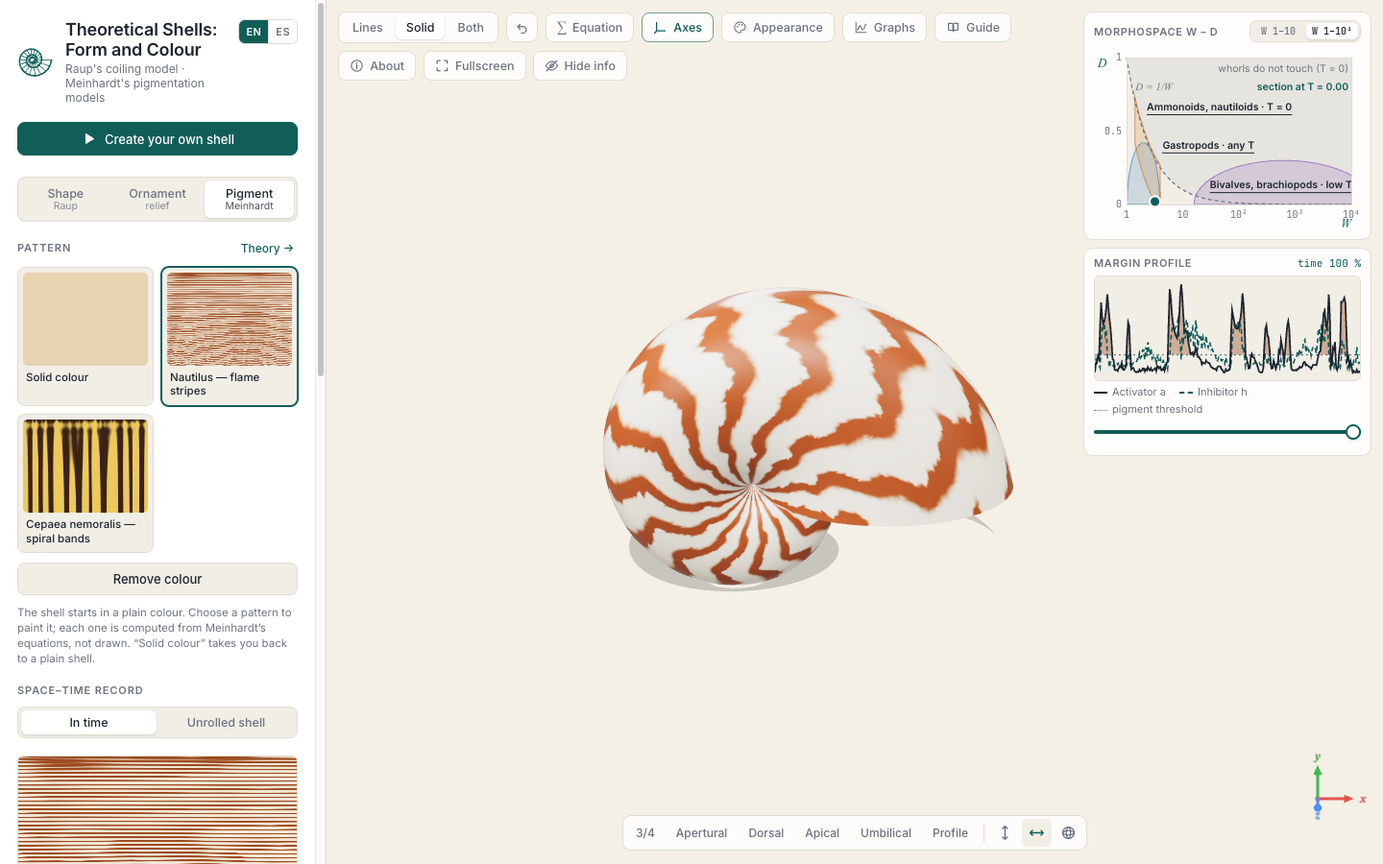
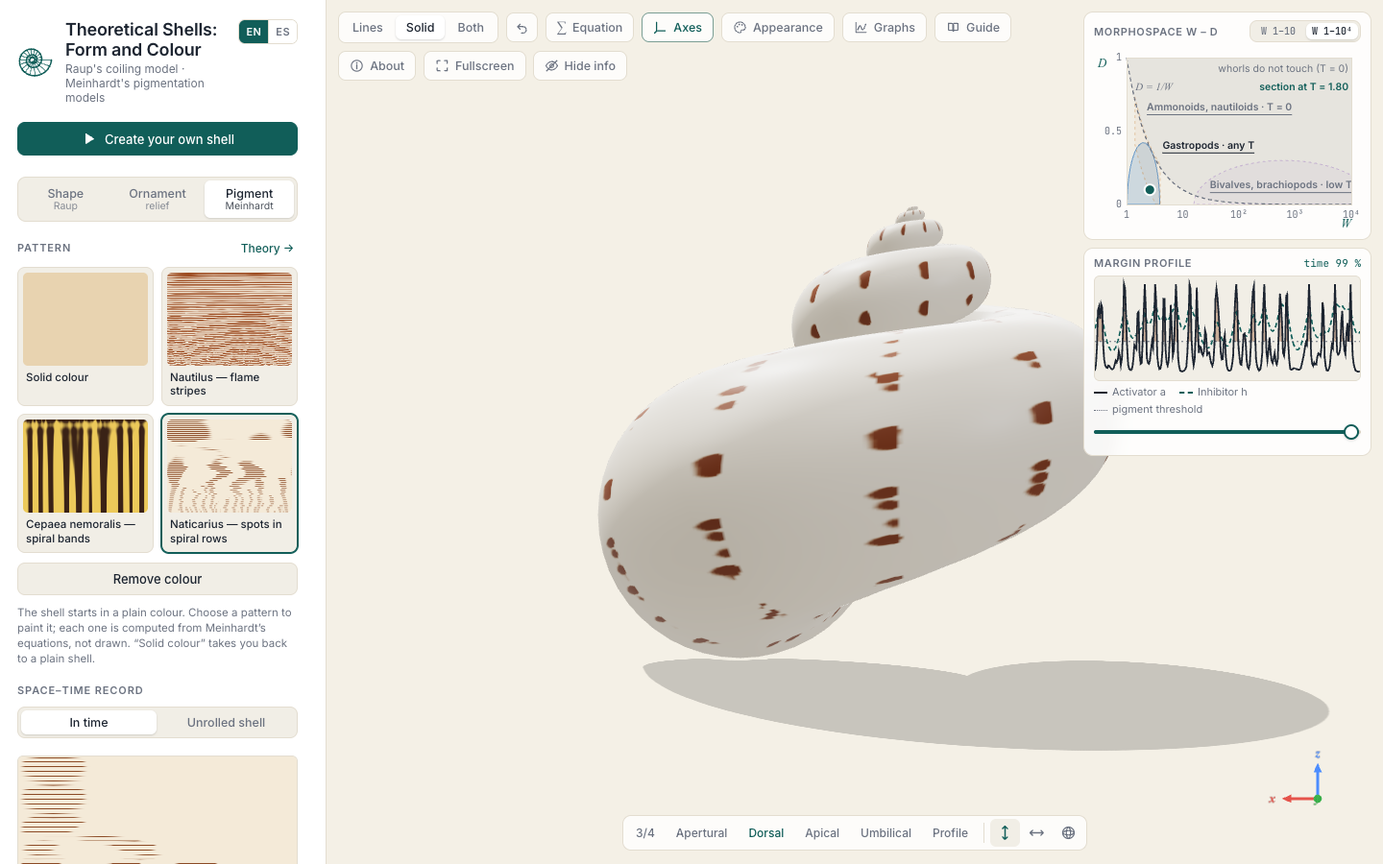
Patrón de puntos de Naticarius, secciones plegables en la barra lateral y worker del patrón en su ruta correcta

diff --git a/index.html b/index.html
@@ -73,30 +73,32 @@
         <div id="raup-params"></div>
       </section>
 
-      <section class="panel">
-        <h2 class="panel-title" data-i18n="geo.title">Geometry</h2>
-        <div id="geo-params"></div>
-        <div class="row-2">
-          <label class="field">
-            <span data-i18n="geo.hand">Coiling</span>
-            <select id="hand" class="select">
-              <option value="1" data-i18n="geo.dextral">Dextral</option>
-              <option value="-1" data-i18n="geo.sinistral">Sinistral</option>
-            </select>
-          </label>
-          <div class="field">
-            <span>&nbsp;</span>
-            <button type="button" class="btn toggle-btn" id="mirror" aria-pressed="false" data-i18n-title="geo.mirror.hint">
-              <svg viewBox="0 0 20 20" aria-hidden="true"><path d="M10 2v16M7 5 3 10l4 5M13 5l4 5-4 5" fill="none" stroke="currentColor" stroke-width="1.6" stroke-linecap="round" stroke-linejoin="round"/></svg>
-              <span data-i18n="geo.mirror">Mirror valve</span>
-            </button>
+      <details class="drawer" id="geoDrawer">
+        <summary><span data-i18n="geo.title">Geometry</span></summary>
+        <div class="drawer-body">
+          <div id="geo-params"></div>
+          <div class="row-2">
+            <label class="field">
+              <span data-i18n="geo.hand">Coiling</span>
+              <select id="hand" class="select">
+                <option value="1" data-i18n="geo.dextral">Dextral</option>
+                <option value="-1" data-i18n="geo.sinistral">Sinistral</option>
+              </select>
+            </label>
+            <div class="field">
+              <span>&nbsp;</span>
+              <button type="button" class="btn toggle-btn" id="mirror" aria-pressed="false" data-i18n-title="geo.mirror.hint">
+                <svg viewBox="0 0 20 20" aria-hidden="true"><path d="M10 2v16M7 5 3 10l4 5M13 5l4 5-4 5" fill="none" stroke="currentColor" stroke-width="1.6" stroke-linecap="round" stroke-linejoin="round"/></svg>
+                <span data-i18n="geo.mirror">Mirror valve</span>
+              </button>
+            </div>
           </div>
+          <button type="button" class="btn btn-wide" id="grow">
+            <svg viewBox="0 0 20 20" aria-hidden="true"><path id="growIcon" d="M6 4l10 6-10 6z" fill="currentColor"/></svg>
+            <span id="growLabel" data-i18n="geo.grow">Animate growth</span>
+          </button>
         </div>
-        <button type="button" class="btn btn-wide" id="grow">
-          <svg viewBox="0 0 20 20" aria-hidden="true"><path id="growIcon" d="M6 4l10 6-10 6z" fill="currentColor"/></svg>
-          <span id="growLabel" data-i18n="geo.grow">Animate growth</span>
-        </button>
-      </section>
+      </details>
 
 
       <details class="drawer" id="morphoDrawer">
@@ -130,38 +132,48 @@
           </div>
         </section>
 
-        <section class="panel">
-          <h2 class="panel-title" data-i18n="orn.ribs">Axial ribs</h2>
-          <p class="note" data-i18n="orn.ribs.desc"></p>
-          <div id="rib-params"></div>
-          <div id="ribAdv-params" class="adv-only"></div>
-        </section>
-        <section class="panel">
-          <h2 class="panel-title" data-i18n="orn.cords">Spiral cords</h2>
-          <p class="note" data-i18n="orn.cords.desc"></p>
-          <div id="cord-params"></div>
-          <div id="cordAdv-params" class="adv-only"></div>
-          <label class="toggle"><input type="checkbox" id="nodules" /><span data-i18n="orn.nodules">Nodules where ribs and cords cross</span></label>
-        </section>
-        <section class="panel">
-          <h2 class="panel-title" data-i18n="orn.spines">Spines</h2>
-          <p class="note" data-i18n="orn.spines.desc"></p>
-          <div id="spine-params"></div>
-          <div class="adv-only">
-            <div id="spineAdv-params"></div>
-            <label class="toggle"><input type="checkbox" id="spineBoth" /><span data-i18n="orn.spineBoth">Two rows, symmetric about the periphery</span></label>
+        <details class="drawer" id="ribDrawer">
+          <summary><span data-i18n="orn.ribs">Axial ribs</span></summary>
+          <div class="drawer-body">
+            <p class="note" data-i18n="orn.ribs.desc"></p>
+            <div id="rib-params"></div>
+            <div id="ribAdv-params" class="adv-only"></div>
           </div>
-        </section>
-        <section class="panel adv-only">
-          <h2 class="panel-title" data-i18n="orn.keel">Keel</h2>
-          <p class="note" data-i18n="orn.keel.desc"></p>
-          <div id="keel-params"></div>
-        </section>
-        <section class="panel adv-only">
-          <h2 class="panel-title" data-i18n="orn.growth">Change with growth</h2>
-          <p class="note" data-i18n="orn.growth.desc"></p>
-          <div id="growth-params"></div>
-        </section>
+        </details>
+        <details class="drawer" id="cordDrawer">
+          <summary><span data-i18n="orn.cords">Spiral cords</span></summary>
+          <div class="drawer-body">
+            <p class="note" data-i18n="orn.cords.desc"></p>
+            <div id="cord-params"></div>
+            <div id="cordAdv-params" class="adv-only"></div>
+            <label class="toggle"><input type="checkbox" id="nodules" /><span data-i18n="orn.nodules">Nodules where ribs and cords cross</span></label>
+          </div>
+        </details>
+        <details class="drawer" id="spineDrawer">
+          <summary><span data-i18n="orn.spines">Spines</span></summary>
+          <div class="drawer-body">
+            <p class="note" data-i18n="orn.spines.desc"></p>
+            <div id="spine-params"></div>
+            <div class="adv-only">
+              <div id="spineAdv-params"></div>
+              <label class="toggle"><input type="checkbox" id="spineBoth" /><span data-i18n="orn.spineBoth">Two rows, symmetric about the periphery</span></label>
+            </div>
+          </div>
+        </details>
+        <details class="drawer adv-only" id="keelDrawer">
+          <summary><span data-i18n="orn.keel">Keel</span></summary>
+          <div class="drawer-body">
+            <p class="note" data-i18n="orn.keel.desc"></p>
+            <div id="keel-params"></div>
+          </div>
+        </details>
+        <details class="drawer adv-only" id="growthDrawer">
+          <summary><span data-i18n="orn.growth">Change with growth</span></summary>
+          <div class="drawer-body">
+            <p class="note" data-i18n="orn.growth.desc"></p>
+            <div id="growth-params"></div>
+          </div>
+        </details>
         <details class="drawer adv-only" id="mechDrawer">
           <summary><span data-i18n="mech.title">Why this number of cords?</span></summary>
           <div class="drawer-body">
@@ -256,13 +268,15 @@
             </div>
           </section>
 
-          <section class="panel">
-            <h2 class="panel-title" data-i18n="pig.colors">Pigment colours</h2>
-            <div class="colors two">
-              <label class="color-field"><input type="color" id="pigBase" value="#f1e7d6" /><span data-i18n="pig.base">Background</span></label>
-              <label class="color-field"><input type="color" id="pigColor" value="#9c4a1f" /><span data-i18n="pig.pigment">Pigment</span></label>
+          <details class="drawer" id="pigColorsDrawer">
+            <summary><span data-i18n="pig.colors">Pigment colours</span></summary>
+            <div class="drawer-body">
+              <div class="colors two">
+                <label class="color-field"><input type="color" id="pigBase" value="#f1e7d6" /><span data-i18n="pig.base">Background</span></label>
+                <label class="color-field"><input type="color" id="pigColor" value="#9c4a1f" /><span data-i18n="pig.pigment">Pigment</span></label>
+              </div>
             </div>
-          </section>
+          </details>
 
           <div class="save-row">
             <button type="button" class="btn" id="savePattern" data-i18n="pig.save">Save pattern</button>

diff --git a/js/ui/ornament-tab.js b/js/ui/ornament-tab.js
@@ -1,7 +1,8 @@
 /**
  * The ornament tab: ornamented examples (shape and relief together), the
  * simple and advanced controls of ribs, cords, keel, spines and change with
- * growth, and the panel of the mechanical model of the cords.
+ * growth (folded sections, opened when the shell has that relief), and the
+ * panel of the mechanical model of the cords.
  */
 import { t } from '../i18n/i18n.js';
 import { criticalWaves, firstMode, lambdaForWaves, loadRatio, mechanicalCords, unstableBand } from '../model/mechanics.js';
@@ -45,6 +46,21 @@ export function syncOrnamentControls() {
   for (const d of ORN_PARAMS) controlsByKey[d.key].set(state[d.key]);
   for (const k of ORN_BOOLS) $(k).checked = !!state[k];
   ornPresetSel.value = ornPresetKey();
+  openActiveDrawers();
+}
+
+/**
+ * Ribs, cords, spines, keel and change with growth are folded sections of equal
+ * rank; when the relief is replaced (an example, undo, removing it) the ones the
+ * shell has are opened and the rest folded. Moving a slider never folds a section.
+ */
+function openActiveDrawers() {
+  const s = state;
+  $('ribDrawer').open = s.ribN > 0 && s.ribH > 0;
+  $('cordDrawer').open = (s.cordN > 0 && s.cordH > 0) || !!s.nodules;
+  $('spineDrawer').open = s.spineN > 0 && s.spineH > 0;
+  $('keelDrawer').open = s.keelH > 0;
+  $('growthDrawer').open = s.ornGrowth !== 0 && hasOrnament(s);
 }
 
 export function onOrnamentChange() {
@@ -181,6 +197,7 @@ export function initOrnamentTab(ctx) {
     onOrnamentChange();
   });
   buildOrnPresetOptions();
+  openActiveDrawers();
   $('ornTheory').addEventListener('click', () => openInfo('ornament'));
   $('ornClear').addEventListener('click', () => {
     Object.assign(state, ORNAMENT_DEFAULTS);

diff --git a/js/i18n/theory-es.js b/js/i18n/theory-es.js
@@ -140,6 +140,7 @@ export default {
     <ul>
       <li><strong>Bandas a lo largo de la espiral</strong>, como en el caracol <i>Cepaea nemoralis</i>: picos de activador estables (activador-inhibidor con un inhibidor de largo alcance).</li>
       <li><strong>Rayas paralelas a las líneas de crecimiento</strong>, como las llamas del <i>Nautilus</i>: oscilaciones sincronizadas entre células vecinas (activador-inhibidor con un inhibidor de vida larga). Su contorno irregular y ramificado se debe a las diferencias entre células.</li>
+      <li><strong>Puntos en filas espirales</strong>, como en los <i>Naticarius</i>: las dos cosas a la vez. El inhibidor mantiene separados los picos a lo largo del borde, como en las bandas, y dura más que el activador, así que cada pico se enciende y se apaga en su sitio, como en las llamas.</li>
       <li><strong>Líneas oblicuas, zigzags y triángulos</strong>, como en <i>Oliva</i> y en muchos conos: ondas viajeras, sus choques y ramificaciones y, en el caso de los triángulos, el control global (activador-sustrato).</li>
     </ul>
     <p>Un pequeño cambio en una sola constante puede convertir un tipo de patrón en otro. El mismo mecanismo, con ritmos algo distintos, explica conchas muy diferentes.</p>

diff --git a/js/ui/pigment.js b/js/ui/pigment.js
@@ -331,7 +331,7 @@ export function applyShellMaterial() {
 let patternWorker = null;
 let workerBusy = false;
 let workerFailed = false;
-const workerUrl = new URL('./workers/pigment-worker.js', import.meta.url);
+const workerUrl = new URL('../workers/pigment-worker.js', import.meta.url);
 
 function startWorker() {
   try {
@@ -497,6 +497,7 @@ export function computeThumbs() {
     colorize(values, job.preset.base, job.preset.pigment, job.preset.amount, img.data);
     canvas.getContext('2d').putImageData(img, 0, 0);
   };
+  const onMainThread = () => jobs.forEach(({ id, p, g }) => setTimeout(() => draw(id, simulatePattern(p, g).values)));
   try {
     const w = new Worker(workerUrl, { type: 'module' });
     let left = jobs.length;
@@ -504,9 +505,14 @@ export function computeThumbs() {
       draw(e.data.id, e.data.v);
       if (--left === 0) w.terminate();
     };
+    // A worker that cannot load (or fails) does not leave the gallery blank
+    w.onerror = () => {
+      w.terminate();
+      onMainThread();
+    };
     jobs.forEach(({ id, p, g }) => w.postMessage({ id, p, g }));
   } catch {
-    jobs.forEach(({ id, p, g }) => setTimeout(() => draw(id, simulatePattern(p, g).values)));
+    onMainThread();
   }
 }
 

diff --git a/js/i18n/theory-en.js b/js/i18n/theory-en.js
@@ -139,6 +139,7 @@ export default {
     <ul>
       <li><strong>Bands along the spiral</strong>, as in the banded snail <i>Cepaea nemoralis</i>: stable activator peaks (activator–inhibitor with a far-reaching inhibitor).</li>
       <li><strong>Stripes parallel to the growth lines</strong>, like the flames of <i>Nautilus</i>: oscillations synchronised between neighbouring cells (activator–inhibitor with a long-lived inhibitor). Their irregular, branching outline comes from the differences between cells.</li>
+      <li><strong>Spots in spiral rows</strong>, as in the moon snails <i>Naticarius</i>: both at once. The inhibitor keeps the peaks apart along the margin, as in the bands, and outlives the activator, so each peak switches on and off in place, as in the flames.</li>
       <li><strong>Oblique lines, zigzags and triangles</strong>, as in <i>Oliva</i> and many cone shells: travelling waves, their annihilation and branching and, for the triangles, global control (activator–substrate).</li>
     </ul>
     <p>A small change in a single constant can turn one type into another. The same mechanism, with slightly different rates, explains very different shells.</p>

diff --git a/js/model/presets.js b/js/model/presets.js
@@ -64,6 +64,16 @@ export const PATTERN_PRESETS = {
     model: 'AI', Da: 0.02, D2: 12, ra: 0.01, r2: 0.015, kappa: 0.4, ba: 0.005, b2: 0,
     noise: 0.05, globalCtl: 0, T: 3000, insertion: false, base: '#ecc95a', pigment: '#3a2216',
   },
+  naticarius: {
+    // Both mechanisms at once: an inhibitor of medium range keeps the peaks apart
+    // along the margin, as in the bands, and outlives the activator, so each peak
+    // switches on and off, as in the flames. Every peak blinks in place and leaves
+    // a spiral row of spots, like the moon snails Naticarius (N. onca). The spots
+    // are short in time because, near the aperture, one unit of time covers a long
+    // stretch of shell: on the shell they come out round.
+    model: 'AI', Da: 0.05, D2: 4, ra: 0.2, r2: 0.1, kappa: 0, ba: 0.05, b2: 0,
+    noise: 0.1, globalCtl: 0, T: 3000, insertion: true, size: 1.6, amount: 0.65, base: '#f4ead8', pigment: '#8b4a24',
+  },
 };
 
 export const DEFAULT_PATTERN = 'nautilus';

diff --git a/css/styles.css b/css/styles.css
@@ -57,8 +57,15 @@ svg { flex: none; }
   display: flex;
   flex-direction: column;
   gap: 18px;
+  /* A thin bar in the theme colours, shown only while the pointer is over the panel */
   scrollbar-width: thin;
+  scrollbar-color: transparent transparent;
 }
+.sidebar:hover { scrollbar-color: var(--border) transparent; }
+.sidebar::-webkit-scrollbar { width: 8px; }
+.sidebar::-webkit-scrollbar-track { background: transparent; }
+.sidebar::-webkit-scrollbar-thumb { background: transparent; border: 2px solid transparent; border-radius: 8px; background-clip: content-box; }
+.sidebar:hover::-webkit-scrollbar-thumb { background-color: var(--border); }
 
 .brand { display: flex; gap: 12px; align-items: center; }
 .brand-mark { width: 38px; height: 38px; color: var(--accent); }

diff --git a/js/i18n/es.js b/js/i18n/es.js
@@ -375,6 +375,7 @@ export default {
   patterns: {
     nautilus: 'Nautilus — rayas en llama',
     cepaea: 'Cepaea nemoralis — bandas espirales',
+    naticarius: 'Naticarius — puntos en filas espirales',
   },
   presets: {
     'Gasterópodos': 'Gasterópodos',

diff --git a/js/i18n/en.js b/js/i18n/en.js
@@ -375,6 +375,7 @@ export default {
   patterns: {
     nautilus: 'Nautilus — flame stripes',
     cepaea: 'Cepaea nemoralis — spiral bands',
+    naticarius: 'Naticarius — spots in spiral rows',
   },
   presets: {
     'Gasterópodos': 'Gastropods',

diff --git a/docs/introduccion-divulgativa.md b/docs/introduccion-divulgativa.md
@@ -80,7 +80,7 @@ Un molusco solo añade pigmento donde la concha crece, en el borde de la apertur
 
 Ese proceso es una **reacción-difusión**, la idea que Alan Turing propuso en 1952 y que Gierer y Meinhardt desarrollaron en 1972: una sustancia **activadora** que se estimula a sí misma y un **antagonista** que difunde más deprisa y la frena. De la competición entre ambos surgen patrones regulares sin que nadie los dibuje. La app ofrece los dos modelos de Meinhardt:
 
-- **Activador-inhibidor.** Si el inhibidor actúa rápido y llega lejos, los picos de activador son estables y dibujan **bandas a lo largo de la espiral** (como en *Cepaea nemoralis*). Si el inhibidor dura más que el activador, el sistema **oscila** y dibuja **rayas paralelas al borde** (como las llamas del *Nautilus*).
+- **Activador-inhibidor.** Si el inhibidor actúa rápido y llega lejos, los picos de activador son estables y dibujan **bandas a lo largo de la espiral** (como en *Cepaea nemoralis*). Si el inhibidor dura más que el activador, el sistema **oscila** y dibuja **rayas paralelas al borde** (como las llamas del *Nautilus*). Si pasan las dos cosas a la vez, cada pico se queda en su sitio pero se enciende y se apaga, y deja **filas de puntos** (como en los *Naticarius*).
 - **Activador-sustrato.** La activación consume un sustrato que tarda en recuperarse, así que cada célula queda un tiempo **refractaria**. La activación avanza entonces como **ondas** que dibujan líneas oblicuas; cuando dos ondas chocan se aniquilan y forman una V. Meinhardt y Klingler (1987) explicaron los **triángulos** de *Oliva porphyria* con un **control global**, una señal común a todo el borde que dispara ondas nuevas cuando la actividad cae. La app incluye una versión simplificada de ese control, que da líneas oblicuas y uves, pero no el patrón completo de *Oliva*.
 
 El pigmento se deposita en la capa externa de la concha, así que la app solo pinta el exterior: el interior de la apertura se ve claro, con un ligero brillo nacarado. Como en las simulaciones de Meinhardt, se deposita pigmento donde el activador supera un umbral, lo que da bordes nítidos; la *cantidad de pigmento* sube o baja ese umbral.
@@ -110,8 +110,8 @@ Si es tu primera vez, el botón **Crea tu propia concha** (arriba de la barra la
 5. **Usa las vistas estándar** de la malacología: 3/4, apertural (de frente a la apertura), dorsal, apical (desde el ápice), umbilical (desde la base) y perfil. Con el ratón puedes rotar (arrastrar), hacer zoom (rueda) y desplazar (clic derecho). Los tres botones de la derecha cambian la orientación: eje vertical, eje horizontal (para ver de frente un nautilus o un ammonites) o giro libre, para girar la concha como si la tuvieras en la mano.
 6. **Pulsa *Animate growth*** para ver crecer la concha desde el ápice hasta la apertura.
 7. **Abre *Equation*** para ver la fórmula general y la misma fórmula con los valores actuales, y ***About*** para la explicación detallada de los dos modelos.
-8. **Añade relieve** en la pestaña **Ornamento**: elige un ejemplo o cambia el número y la altura de costillas, cordones y espinas. El modo **Avanzado** añade anchuras, asimetría, quilla, cambio con el crecimiento y el modelo mecánico de los cordones. **Quitar ornamentación** vuelve a la concha lisa.
-9. **Píntala** en la pestaña **Pigmento · Meinhardt**: al entrar, las líneas desaparecen y la concha se ve sólida, en un color liso. Tú eliges el patrón en la galería, que muestra cada uno (Nautilus y Cepaea) con su miniatura; la opción **Solid colour** vuelve a la concha lisa. En la vista **Simple**, los controles cambian el patrón de forma gradual: **tamaño del patrón**, **tiempo de crecimiento**, **irregularidad**, **cantidad de pigmento** y la **semilla** (otra variación del mismo patrón). La vista **Advanced** muestra además el modelo y todas sus constantes, así que desde ahí se controla todo, y el **perfil del borde**: el activador y el inhibidor (o el sustrato) a lo largo del borde en el instante que elijas pinchando en el registro espacio-tiempo, con el umbral de pigmentación. El registro espacio-tiempo se puede ver **en el tiempo** (el diagrama de Meinhardt, con la misma altura para cada vuelta) o como **concha desenrollada** (con las proporciones reales: un abanico que se abre desde el ápice). Las ecuaciones de Meinhardt, con los valores actuales, están en *Equation*.
+8. **Añade relieve** en la pestaña **Ornamento**: elige un ejemplo o cambia el número y la altura de costillas, cordones y espinas, cada uno en su sección plegable (se abren solas las que tiene la concha). El modo **Avanzado** añade anchuras, asimetría, quilla, cambio con el crecimiento y el modelo mecánico de los cordones. **Quitar ornamentación** vuelve a la concha lisa.
+9. **Píntala** en la pestaña **Pigmento · Meinhardt**: al entrar, las líneas desaparecen y la concha se ve sólida, en un color liso. Tú eliges el patrón en la galería, que muestra cada uno (Nautilus, Cepaea y Naticarius) con su miniatura; la opción **Solid colour** vuelve a la concha lisa. En la vista **Simple**, los controles cambian el patrón de forma gradual: **tamaño del patrón**, **tiempo de crecimiento**, **irregularidad**, **cantidad de pigmento** y la **semilla** (otra variación del mismo patrón). La vista **Advanced** muestra además el modelo y todas sus constantes, así que desde ahí se controla todo, y el **perfil del borde**: el activador y el inhibidor (o el sustrato) a lo largo del borde en el instante que elijas pinchando en el registro espacio-tiempo, con el umbral de pigmentación. El registro espacio-tiempo se puede ver **en el tiempo** (el diagrama de Meinhardt, con la misma altura para cada vuelta) o como **concha desenrollada** (con las proporciones reales: un abanico que se abre desde el ápice). Las ecuaciones de Meinhardt, con los valores actuales, están en *Equation*.
 10. **Muestra gráficos sobre la vista 3D** desde el menú **Gráficos** (desactivados por defecto): la posición de la concha en el morfoespacio W – D, en la que también puedes pinchar, y el perfil del activador y el inhibidor (o el sustrato) a lo largo del borde, con un slider para elegir el instante del crecimiento.
 11. **Para ver solo la concha**, usa *Pantalla completa* y *Ocultar info*. Si algo no te convence, la flecha de **deshacer** de la barra (o Ctrl+Z / ⌘Z) vuelve al paso anterior.
 12. **Exporta** tu concha desde **Exportar…**, poniéndole un nombre si quieres:
@@ -175,6 +175,7 @@ Aproximaciones a los tipos de patrón de cada especie, no ajustes a ejemplares r
 |---|---|---|---|
 | *Nautilus*: rayas en llama | Activador-inhibidor | Oscilación (inhibidor de vida larga) | Sí |
 | *Cepaea nemoralis*: bandas espirales | Activador-inhibidor | Picos estables (inhibición de largo alcance) | No |
+| *Naticarius*: puntos en filas espirales | Activador-inhibidor | Picos en su sitio que se encienden y se apagan (inhibición de alcance medio y vida larga) | Sí |
 
 ## Para desarrolladores
 

diff --git a/docs/README.es.md b/docs/README.es.md
@@ -78,7 +78,7 @@ P*(θ, φ) = P(θ, φ) + W^(θ/2π) · a · δ(θ, φ) · n(φ)
 
 ![Cuatro conchas ornamentadas generadas con la app: un ammonites con costillas (Dactylioceras), un Cerithium con filas de nódulos y color en bandas, un ammonites con costillas y espinas dibujado con líneas, y un Epitonium con costillas laminares y rayas en llama](images/ornament.png)
 
-Los ejemplos cargan la forma y el relieve de conchas reales: *Epitonium clathrus*, *Turritella*, *Calliostoma*, *Cancellaria*, *Cerithium*, la concha sol *Astraea*, un ammonites con costillas (*Dactylioceras*) y otro con espinas, y un berberecho. Las conchas cuya forma no puede dibujar el modelo de Raup, como *Murex* con su largo canal sifonal, quedan fuera. Con ornamentación, el dibujo de líneas sigue el relieve, como una ilustración científica: líneas de crecimiento en las crestas de las costillas, líneas espirales en las crestas de los cordones y cada espina perfilada como un cono. El relieve aparece también en la ecuación, en la ficha PDF y en los archivos 3D.
+Los ejemplos cargan la forma y el relieve de conchas reales: *Epitonium clathrus*, *Turritella*, *Calliostoma*, *Cancellaria*, *Cerithium*, la concha sol *Astraea*, un ammonites con costillas (*Dactylioceras*) y otro con espinas, y un berberecho. Las conchas cuya forma no puede dibujar el modelo de Raup, como *Murex* con su largo canal sifonal, quedan fuera. Con ornamentación, el dibujo de líneas sigue el relieve, como una ilustración científica: líneas de crecimiento en las crestas de las costillas, líneas espirales en las crestas de los cordones y cada espina perfilada como un cono. El relieve aparece también en la ecuación, en la ficha PDF y en los archivos 3D. En la pestaña, costillas, cordones, espinas, quilla y cambio con el crecimiento son secciones plegables del mismo rango; al cargar un ejemplo se abren solas las que tiene esa concha.
 
 Esta parte es **descriptiva**, como el modelo de Raup (Fowler, Meinhardt y Prusinkiewicz, 1992; Cortie, 1993). Para los cordones espirales la app ofrece además una **explicación mecánica**, según Moulton, Goriely y Chirat (2012): el borde del manto es una varilla elástica unida a la concha que acaba de construir (una base de Winkler). Si crece más deprisa que el borde, se pandea en ondas, y cada onda deja un cordón. La carga necesaria para pandearse en n ondas es
 
@@ -98,9 +98,9 @@ El plano es un **corte del cubo W–D–T de Raup con el T actual**. Los grupos 
 
 Un molusco solo añade pigmento en el borde que crece, así que un patrón de concha es un **registro en el tiempo de un proceso unidimensional**: el espacio va a lo largo del borde y el tiempo, en la dirección de crecimiento. La app simula el borde con los modelos de reacción-difusión de Meinhardt y envuelve el registro espacio-tiempo resultante sobre la superficie de Raup, como hicieron Fowler, Meinhardt y Prusinkiewicz (1992).
 
-![Una concha de Nautilus con las rayas en llama del modelo activador-inhibidor, con el registro espacio-tiempo en la barra lateral y, sobre la vista 3D, el morfoespacio y el perfil del activador y el inhibidor a lo largo del borde](images/pigmentation.png)
+![Un caracol con los puntos en filas espirales del preset Naticarius, con la galería de patrones y el registro espacio-tiempo en la barra lateral y, sobre la vista 3D, el morfoespacio y el perfil del activador y el inhibidor a lo largo del borde en un instante en que los puntos están encendidos](images/pigmentation.png)
 
-- **Modelo activador-inhibidor.** Un activador que se refuerza a sí mismo y un inhibidor rápido y de largo alcance dan picos estables, que dibujan bandas a lo largo de la espiral (*Cepaea nemoralis*). Si el inhibidor dura más que el activador, el borde oscila y dibuja rayas paralelas a las líneas de crecimiento (las llamas del *Nautilus*).
+- **Modelo activador-inhibidor.** Un activador que se refuerza a sí mismo y un inhibidor rápido y de largo alcance dan picos estables, que dibujan bandas a lo largo de la espiral (*Cepaea nemoralis*). Si el inhibidor dura más que el activador, el borde oscila y dibuja rayas paralelas a las líneas de crecimiento (las llamas del *Nautilus*). Con las dos cosas a la vez, un inhibidor de alcance medio que además dura más que el activador, cada pico se queda en su sitio pero se enciende y se apaga, y deja una fila espiral de puntos (los *Naticarius*).
 
   ```
   ∂a/∂t = s·(a²/(h·(1 + κa²)) + b_a) − r_a·a + D_a·∂²a/∂x²
@@ -109,7 +109,7 @@ Un molusco solo añade pigmento en el borde que crece, así que un patrón de co
 
 - **Modelo activador-sustrato.** El activador consume un sustrato que se recupera despacio, así que la activación avanza como ondas que dibujan líneas oblicuas y se aniquilan al encontrarse. Meinhardt y Klingler (1987) explicaron los triángulos de *Oliva porphyria* añadiendo una señal compartida por todo el borde que inicia ondas nuevas cuando la actividad baja. La app incluye una versión simplificada de ese control global, que da líneas oblicuas y uves pero no el patrón completo de *Oliva*; por eso está disponible en los controles avanzados y no como preset de una especie.
 
-Dos presets reproducen tipos de patrón reales: las rayas en llama del *Nautilus* y las bandas espirales de *Cepaea nemoralis*.
+Tres presets reproducen tipos de patrón reales: las rayas en llama del *Nautilus*, las bandas espirales de *Cepaea nemoralis* y los puntos en filas espirales de *Naticarius*.
 
 Los **controles simples** fijan magnitudes reales del modelo: el número de células a lo largo del borde, el tiempo de crecimiento, la irregularidad entre células y el umbral de pigmento. Una semilla elige las diferencias al azar entre células. Los **controles avanzados** dan acceso a todas las constantes de las ecuaciones, a la elección del modelo y a la inserción de células nuevas a medida que el borde crece. El registro espacio-tiempo se puede ver en el tiempo, que es el diagrama de Meinhardt, o desenrollado con las proporciones reales de la concha. Un **perfil del borde** representa el activador y el inhibidor o el sustrato en cualquier instante del crecimiento. Si un conjunto de valores no forma ningún patrón, la app lo indica en lugar de mostrar una concha vacía.
 

diff --git a/README.md b/README.md
@@ -76,7 +76,7 @@ P*(θ, φ) = P(θ, φ) + W^(θ/2π) · a · δ(θ, φ) · n(φ)
 
 ![Four ornamented shells generated by the app: a ribbed ammonite (Dactylioceras), a Cerithium with rows of nodules and banded colour, an ammonite with ribs and spines drawn with lines, and an Epitonium with lamellar ribs and flame stripes](docs/images/ornament.png)
 
-The examples load the shape and the relief of real shells: *Epitonium clathrus*, *Turritella*, *Calliostoma*, *Cancellaria*, *Cerithium*, the sun shell *Astraea*, a ribbed (*Dactylioceras*) and a spiny ammonite, and a cockle. Shells whose form Raup's model cannot draw, such as *Murex* with its long siphonal canal, are left out. With ornament, the line drawing follows the relief, like a scientific illustration: growth lines on the crests of the ribs, spiral lines on the crests of the cords, and each spine outlined as a cone. The relief also appears in the equation, the PDF sheet and the 3D files.
+The examples load the shape and the relief of real shells: *Epitonium clathrus*, *Turritella*, *Calliostoma*, *Cancellaria*, *Cerithium*, the sun shell *Astraea*, a ribbed (*Dactylioceras*) and a spiny ammonite, and a cockle. Shells whose form Raup's model cannot draw, such as *Murex* with its long siphonal canal, are left out. With ornament, the line drawing follows the relief, like a scientific illustration: growth lines on the crests of the ribs, spiral lines on the crests of the cords, and each spine outlined as a cone. The relief also appears in the equation, the PDF sheet and the 3D files. In the tab, ribs, cords, spines, keel and change with growth are folded sections of equal rank; when an example is loaded, the ones that shell has open by themselves.
 
 This part is **descriptive**, like Raup's model (Fowler, Meinhardt & Prusinkiewicz, 1992; Cortie, 1993). For the spiral cords the app also offers a **mechanical explanation**, after Moulton, Goriely and Chirat (2012): the edge of the mantle is an elastic rod attached to the shell it has just built (a Winkler foundation). If it grows faster than the margin, it buckles into waves, and each wave leaves a cord. The load needed to buckle into n waves is
 
@@ -96,9 +96,9 @@ The plane is a **section of Raup's W–D–T cube at the current T**. The groups
 
 A mollusc only adds pigment at the growing margin, so a shell pattern is a **time record of a one-dimensional process**: space runs along the margin and time along the direction of growth. The app simulates the margin with Meinhardt's reaction–diffusion models and wraps the resulting space–time record onto Raup's surface, as Fowler, Meinhardt and Prusinkiewicz (1992) did.
 
-![A Nautilus shell with the flame stripes of the activator–inhibitor model, with the space–time record in the sidebar and, over the 3D view, the morphospace and the activator and inhibitor profile along the margin](docs/images/pigmentation.png)
+![A moon snail with the spots in spiral rows of the Naticarius preset, with the pattern gallery and the space–time record in the sidebar and, over the 3D view, the morphospace and the activator and inhibitor profile along the margin at a moment when the spots are switched on](docs/images/pigmentation.png)
 
-- **Activator–inhibitor model.** A self-enhancing activator and a fast, far-reaching inhibitor give stable peaks, which draw bands along the spiral (*Cepaea nemoralis*). If the inhibitor outlives the activator, the margin oscillates and draws stripes parallel to the growth lines (the flames of *Nautilus*).
+- **Activator–inhibitor model.** A self-enhancing activator and a fast, far-reaching inhibitor give stable peaks, which draw bands along the spiral (*Cepaea nemoralis*). If the inhibitor outlives the activator, the margin oscillates and draws stripes parallel to the growth lines (the flames of *Nautilus*). With both at once, a medium-range inhibitor that also outlives the activator, each peak stays in place but switches on and off, and leaves a spiral row of spots (the moon snails *Naticarius*).
 
   ```
   ∂a/∂t = s·(a²/(h·(1 + κa²)) + b_a) − r_a·a + D_a·∂²a/∂x²
@@ -107,7 +107,7 @@ A mollusc only adds pigment at the growing margin, so a shell pattern is a **tim
 
 - **Activator–substrate model.** The activator consumes a substrate that recovers slowly, so activation travels as waves that draw oblique lines and annihilate when they meet. Meinhardt and Klingler (1987) explained the triangles of *Oliva porphyria* by adding a signal shared by the whole margin that starts new waves when activity drops. The app includes a simplified version of that global control, which gives oblique lines and V shapes but not the full *Oliva* pattern, so it is available in the advanced controls and not as a species preset.
 
-Two presets reproduce real pattern types: the flame stripes of *Nautilus* and the spiral bands of *Cepaea nemoralis*.
+Three presets reproduce real pattern types: the flame stripes of *Nautilus*, the spiral bands of *Cepaea nemoralis* and the spots in spiral rows of *Naticarius*.
 
 **Simple controls** set real quantities of the model: the number of cells along the margin, the growth time, the irregularity between cells and the pigment threshold. A seed chooses the random differences between cells. **Advanced controls** expose every constant of the equations, the choice of model and the insertion of new cells as the margin grows. The space–time record can be seen in time, which is Meinhardt's diagram, or unrolled with the true proportions of the shell. A **margin profile** plots the activator and the inhibitor or substrate at any moment of growth. If a set of values forms no pattern, the app says so instead of showing an empty shell.
 
